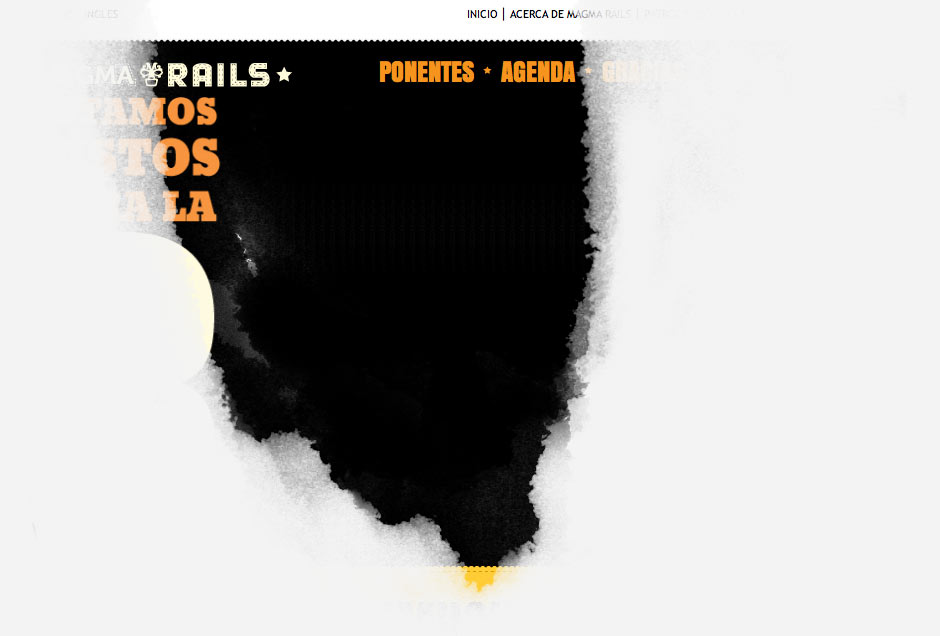
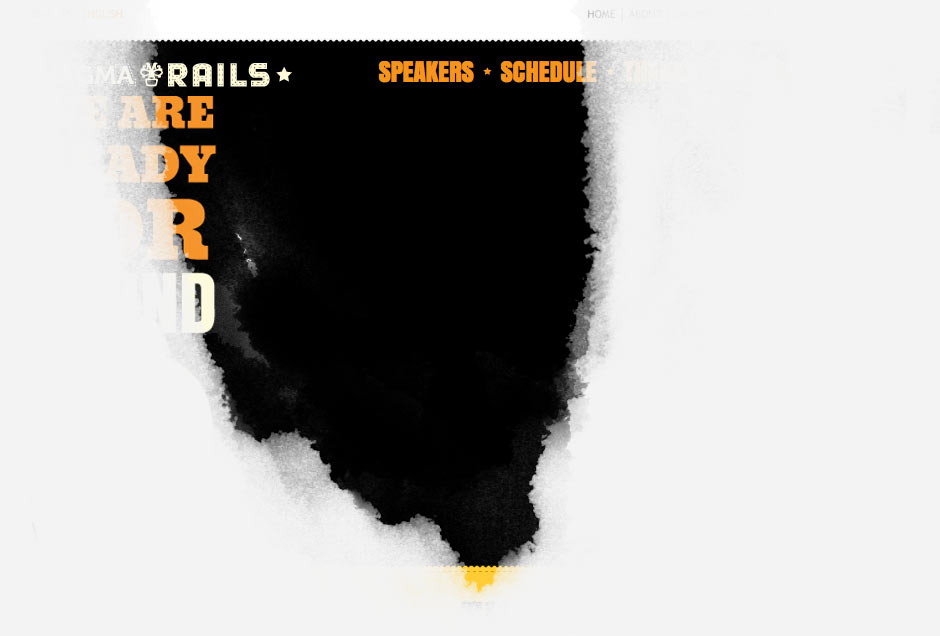
Bg images changed to english and images were optimized for faster load

Changed region(s): [[0.1234, 0.1494, 0.2468, 0.5676], [0.4011, 0.0896, 0.6479, 0.1494], [0.4936, 0.0, 0.6479, 0.0299]]

diff --git a/app/assets/stylesheets/home.css.sass b/app/assets/stylesheets/home.css.sass
@@ -37,9 +37,9 @@ a
   width: 700px
   height: 470px
   position: absolute
+  background: #000
   top: 95px
   right: 0
-  background: #000
   z-index: 1
   overflow: hidden
   -ms-filter: "progid:DXImageTransform.Microsoft.Alpha(Opacity=0)"
@@ -104,3 +104,15 @@ h1
 
 h1, #fresh-paint-pic
   display: none
+
+#preload
+  position: absolute
+  height: 1px
+  width: 1px
+  top: -9999px
+  background: url(/assets/floor.gif) top no-repeat
+
+#preload-inner
+  height: 1px
+  width: 1px
+  background: url(/assets/lights.jpg) top no-repeat

diff --git a/app/assets/javascripts/application/app.js b/app/assets/javascripts/application/app.js
@@ -13,8 +13,8 @@ $(function() {
 });
 
 $(document).ready(function () {
-	$("#parallax").pause(1000).animate({opacity: '1'},{duration: 1000});
-	$("h1").pause(2000).fadeIn(1000);
-    $("#calltoaction").pause(2400).fadeIn(1000);
-    $("#fresh-paint-pic").pause(3000).fadeIn(1000);
+	$("h1").pause(1000).fadeIn(1000);
+    $("#calltoaction").pause(1400).fadeIn(1000);
+    $("#fresh-paint-pic").pause(2000).fadeIn(1000);
+    $("#parallax").pause(3000).animate({opacity: '1'},{duration: 1000});
 });
